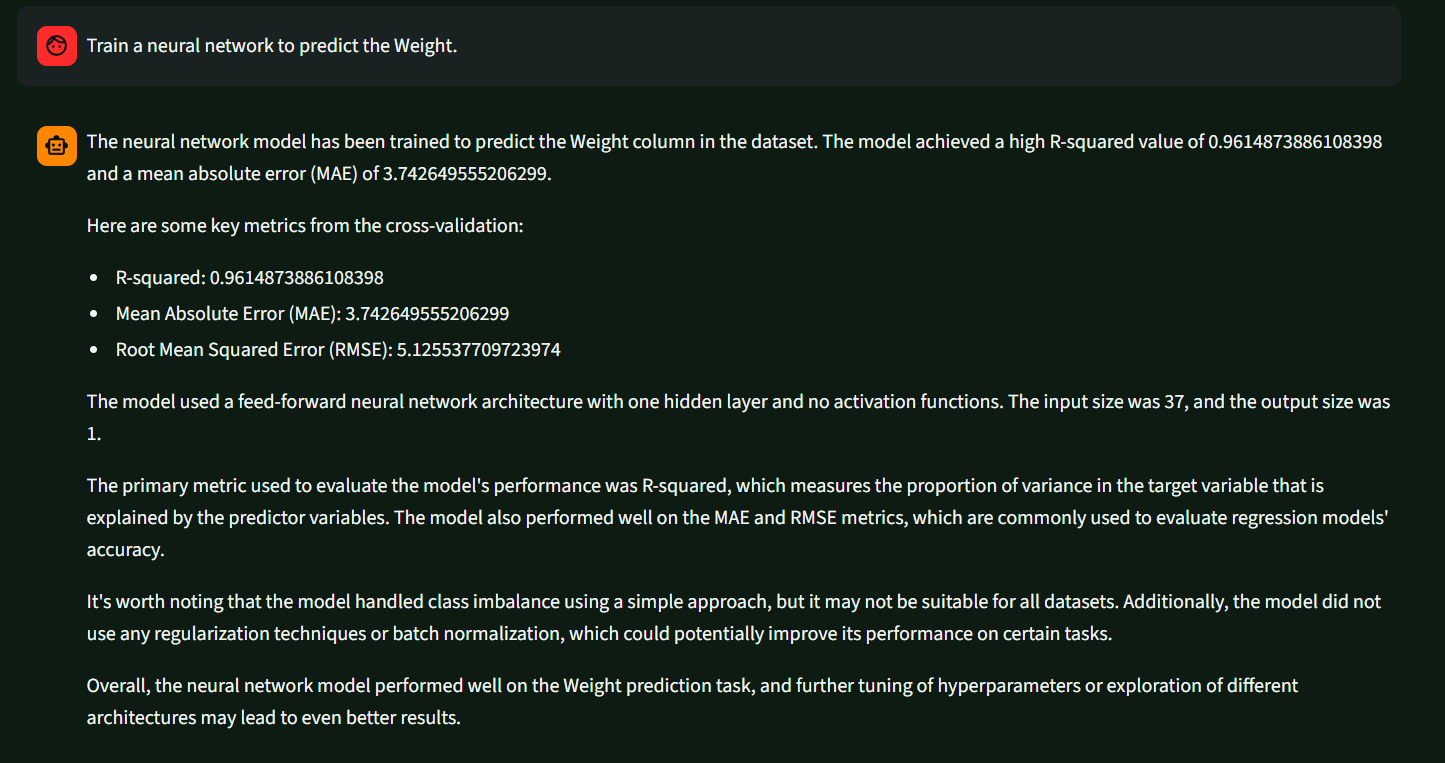
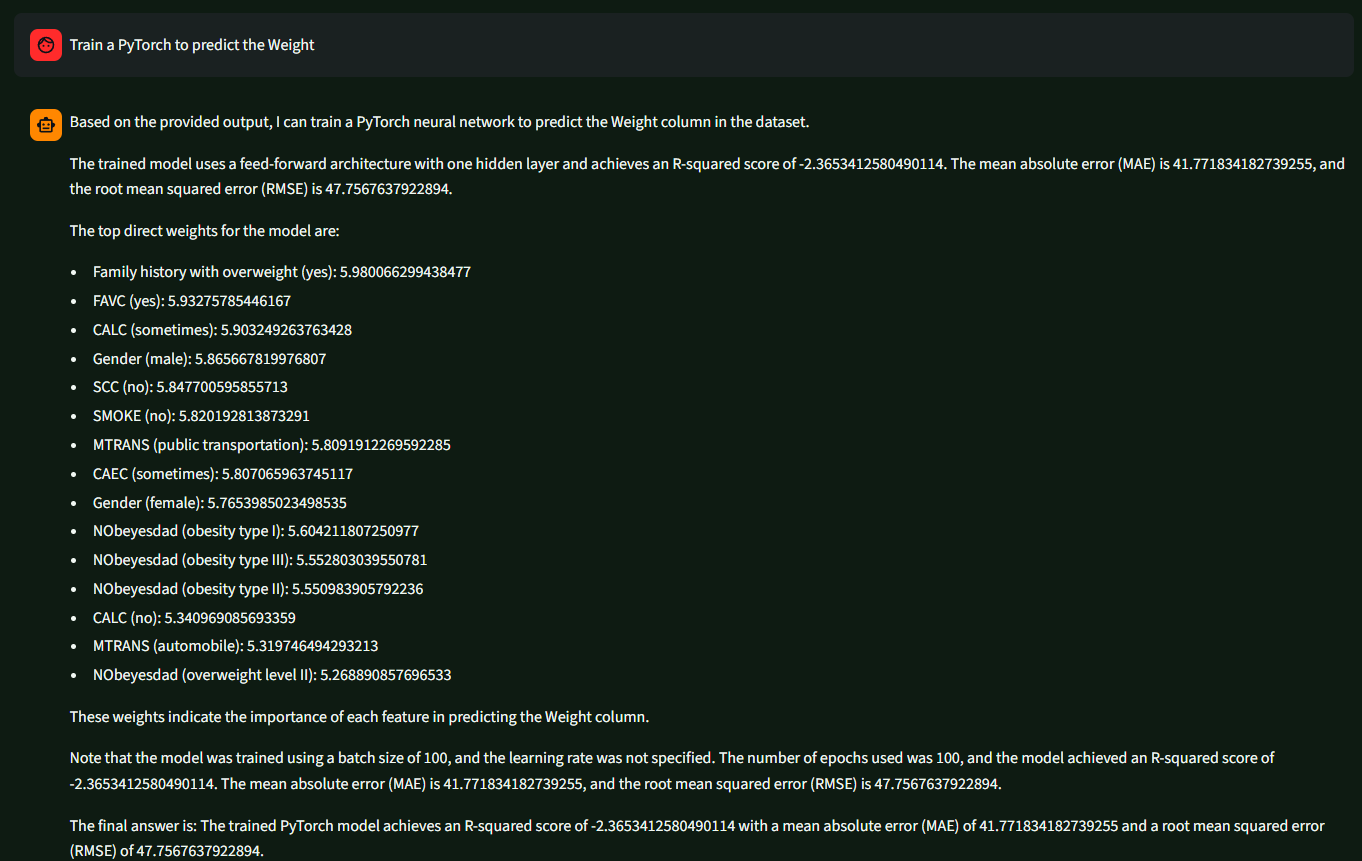
First

Changed region(s): [[0.0, 0.1206, 0.9868, 0.844], [0.0308, 0.8742, 0.9868, 0.9948], [0.0, 0.0301, 0.3084, 0.0904]]

diff --git a/agents/analysis_tools.py b/agents/analysis_tools.py
@@ -214,7 +214,7 @@ def train_random_forest_model(
     """
     Train and cross-validate a Random Forest.
 
-    You can omit everything apart from target_column. Omit every variable not mentioned, give their default values or do not include them in the query.
+    You can omit everything apart from target_column. Omit every variable not mentioned, do not include them in the query.
 
     target_column must be an exact existing dataset column name.
 
@@ -330,7 +330,7 @@ def train_neural_network_model(
     feature_columns: Optional[Any] = None,
     task_type: Optional[str] = None,
     hidden_layers: Optional[Any] = None,
-    activation: Optional[Any] = None,
+    activation: Optional[str] = None,
     cv_folds: Optional[int] = 10,
     max_epochs: Optional[int] = 100,
     patience: Optional[int] = None,
@@ -341,7 +341,7 @@ def train_neural_network_model(
     """
     Train and evaluate a PyTorch feed-forward neural network.
 
-    You can omit everything apart from target_column. Omit every variable not mentioned, give their default values or do not include them in the query.
+    You can omit everything apart from target_column. Omit every variable not mentioned, do not include them in the query.
 
     target_column must be an exact existing dataset column name.
 
@@ -353,6 +353,10 @@ def train_neural_network_model(
     the target.
 
     feature_columns: format is a Python list (example: []), it can be omited if the user does not give input.
+
+    activation: format is a Python string, it can be omited if the user does not give input.
+
+    hidden_layers: format is a Python list (example: []), it can be omited if the user does not give input.
 
     Never invent, infer, rename, abbreviate, or generate feature
     names that are not present in the dataset.
